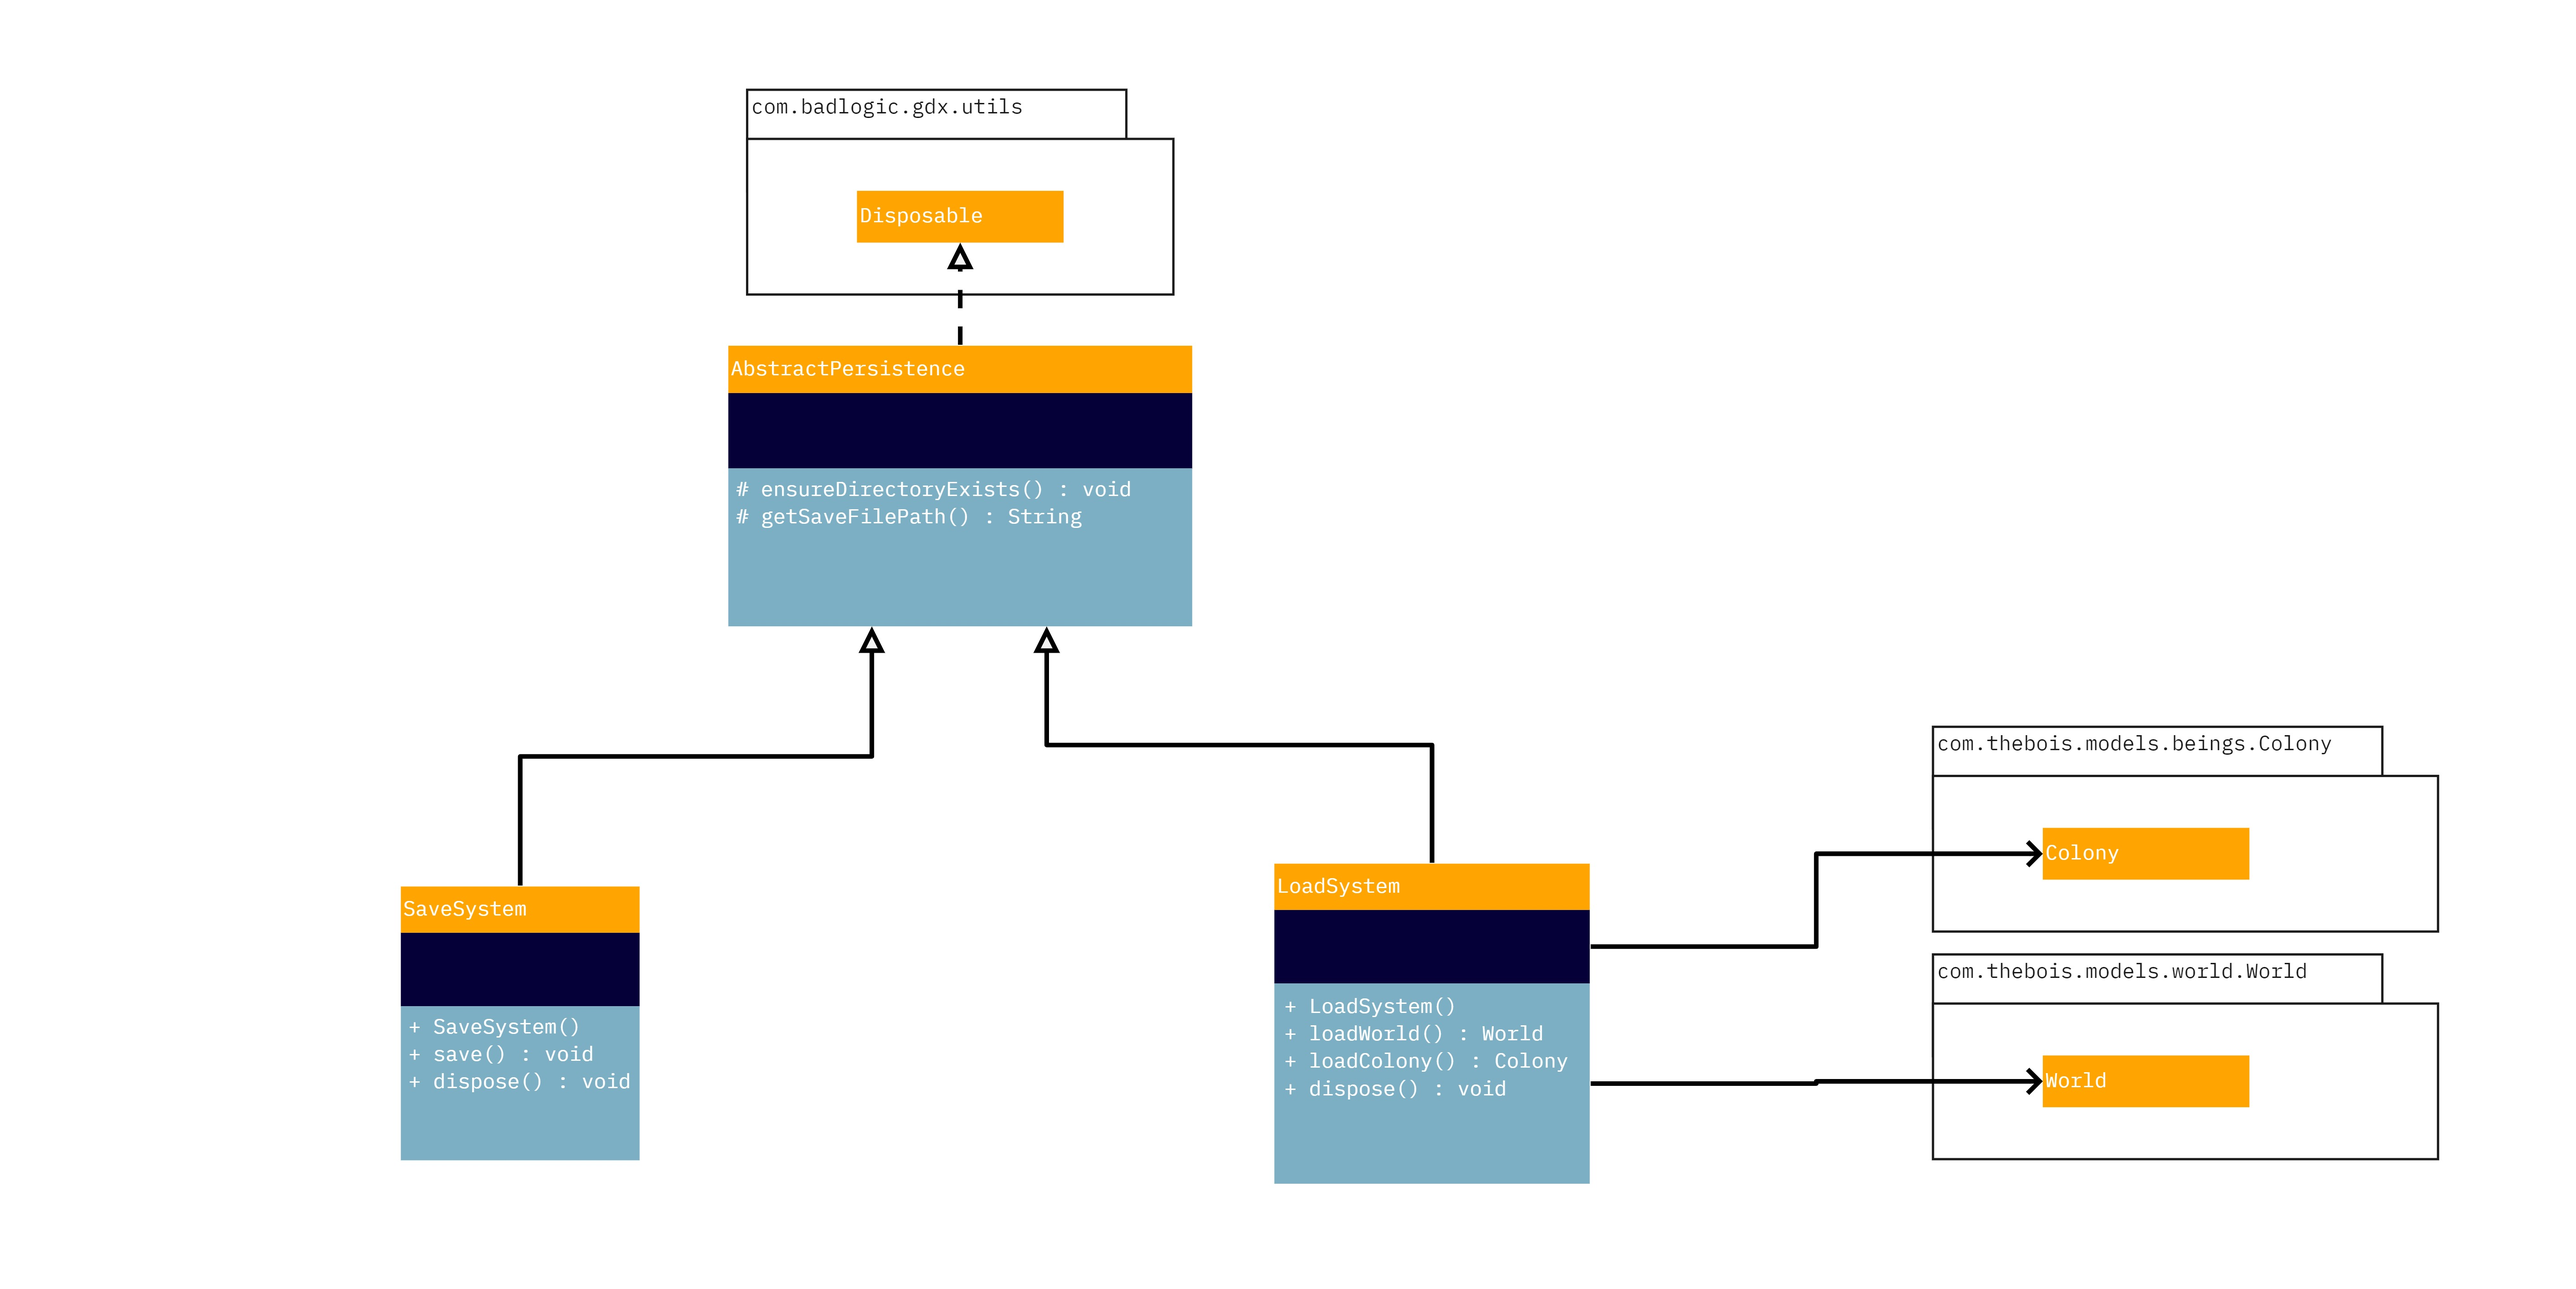
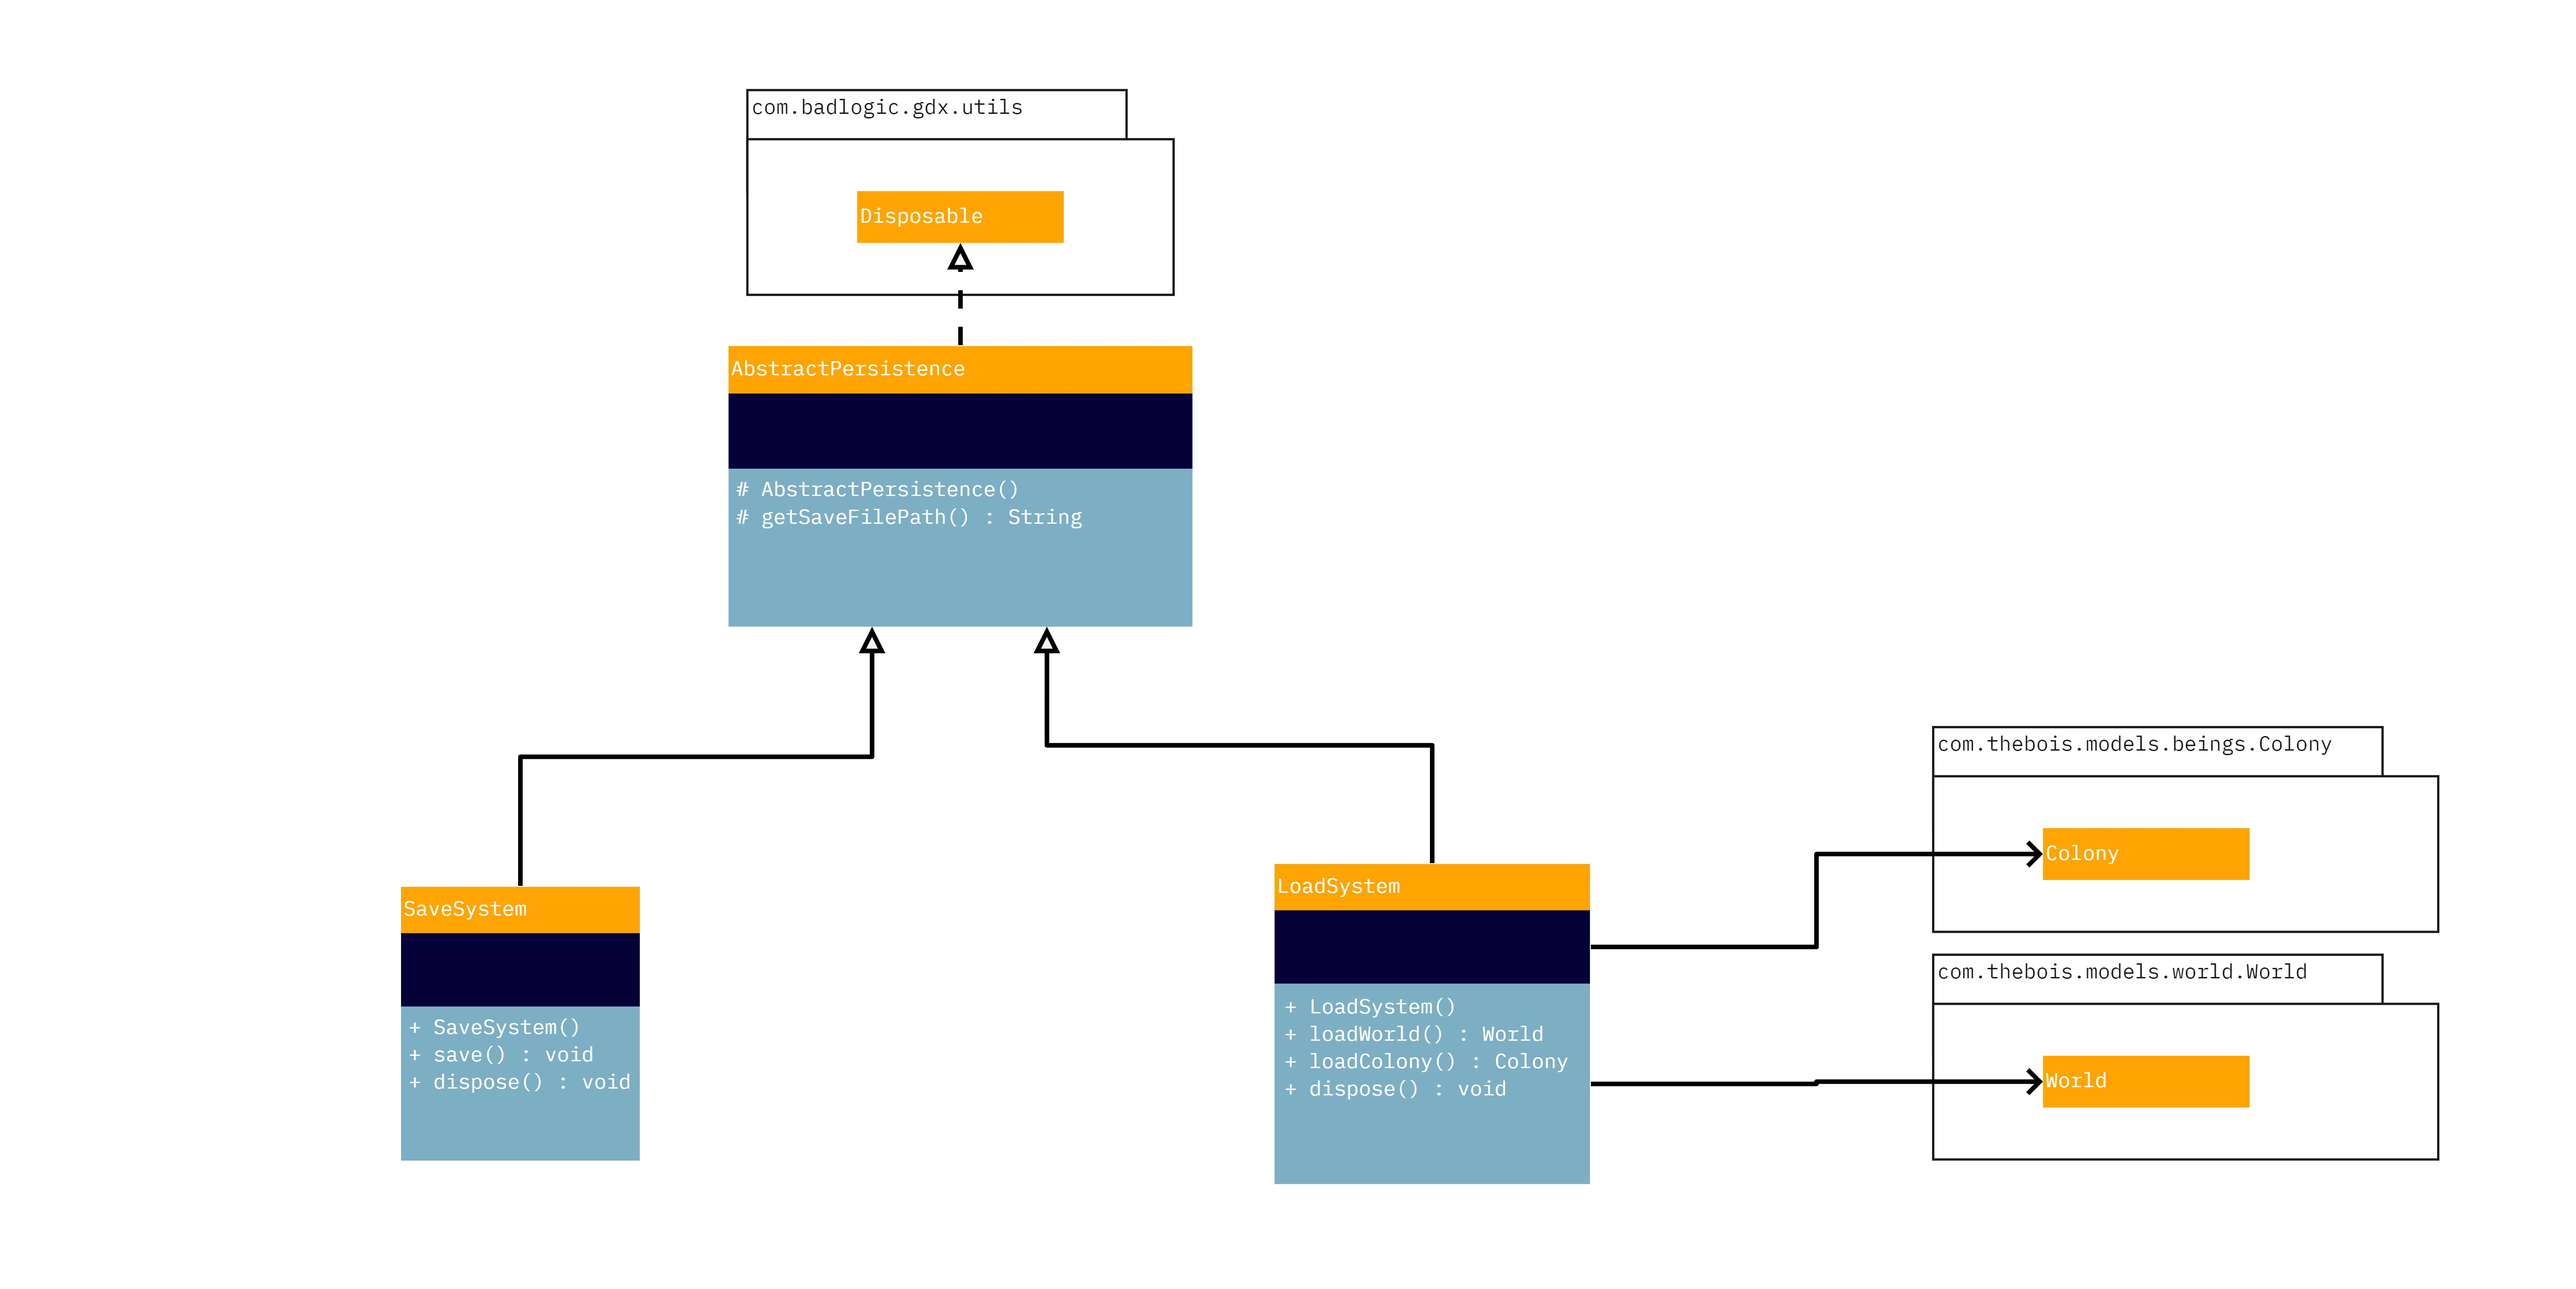
Change persistence package to use constructor instead of method

diff --git a/src/main/java/com/thebois/persistence/AbstractPersistence.java b/src/main/java/com/thebois/persistence/AbstractPersistence.java
@@ -13,10 +13,9 @@ abstract class AbstractPersistence implements Disposable {
         System.getProperty("user.home") + "/Documents/Pawntastic/saves/";
 
     /**
-     * All subclasses need to use this in the constructor to ensure the directory is there before
-     * any commands/operations can be carried out.
+     * Ensures that the save directory exists before any other commands/operations are carried out.
      */
-    protected void ensureDirectoryExists() {
+    protected AbstractPersistence() {
         final File filePath = new File(saveDirectory);
         if (!filePath.exists()) {
             filePath.mkdirs();

diff --git a/src/main/java/com/thebois/persistence/SaveSystem.java b/src/main/java/com/thebois/persistence/SaveSystem.java
@@ -4,7 +4,6 @@ import java.io.FileOutputStream;
 import java.io.IOException;
 import java.io.ObjectOutputStream;
 
-
 /**
  * Handles the saving of objects to the save-file.
  */
@@ -18,9 +17,6 @@ public class SaveSystem extends AbstractPersistence {
      * @throws IOException If the file save-file is deleted during runtime.
      */
     public SaveSystem() throws IOException {
-
-        ensureDirectoryExists();
-
         final FileOutputStream fileOutputStream = new FileOutputStream(getSaveFilePath());
         objectOutputStream = new ObjectOutputStream(fileOutputStream);
     }

diff --git a/src/main/java/com/thebois/persistence/LoadSystem.java b/src/main/java/com/thebois/persistence/LoadSystem.java
@@ -20,10 +20,7 @@ public class LoadSystem extends AbstractPersistence {
      * @throws IOException If the save-file is deleted during runtime.
      */
     public LoadSystem() throws IOException {
-
-        ensureDirectoryExists();
         final FileInputStream fileInputStream = new FileInputStream(getSaveFilePath());
-
         objectInputStream = new ObjectInputStream(fileInputStream);
     }
 
